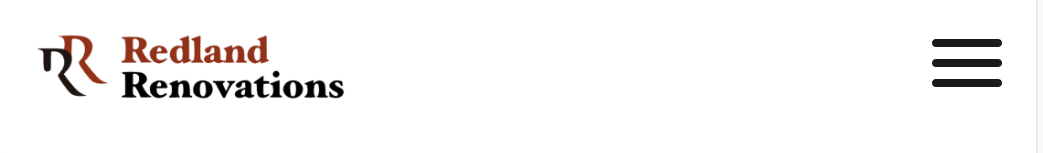
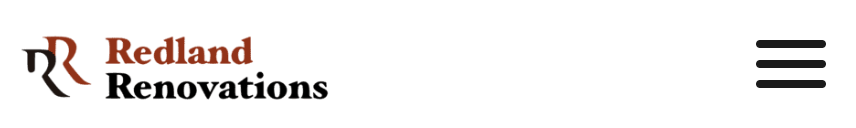
docs: add features

diff --git a/README.md b/README.md
@@ -99,7 +99,8 @@
 - Surface
 
   - Color Scheme
-        ![Color scheme](assets/docs/color-scheme-preview.png)
+  
+  <img src="assets/docs/color-scheme-preview.png" alt="Color scheme preview" width="450px">
 
   - Typography
     - Headings are formatted using the 'Suez One' font, a serif typeface.
@@ -128,11 +129,15 @@
 ```
 
   - Imagery
+    - Logo
+  
+    <img src="assets/docs/image-preview/logo-preview.png" alt="Color scheme preview" width="200px">
+  
     - Hero Image
   ![Hero image](assets/docs/image-preview/hero-image-preview.png)
   
-  - Roofing & lof extensions
-  [Roofing works images](assets/docs/image-preview/roofing-image-preview.png)
+  - Roofing & loft extensions
+  ![Roofing works images](assets/docs/image-preview/roofing-image-preview.png)
 
   - Plastering, rendering, insulation & stonemasonry
   ![Rendering works images](assets/docs/image-preview/plastering-image-preview.png)
@@ -156,17 +161,17 @@
 
 ### Existing Features
 
-  - Header
+  - Header + Navigation bar
 
 ![Feature](assets/docs/features/header.png)
 
   - Hamburger menu
 
-![Feature](assets/docs/features/hamburger-menu.png)
+<img src="assets/docs/features/hamburger-menu.png" alt="Hamburger menu preview image" width="350px">
 
   - Menu Sidebar
 
-![Feature](assets/docs/features/menu-sidebar.png)
+<img src="assets/docs/features/menu-sidebar.png" alt="Sidebar preview image" width="350px">
 
   - Home Page
 
@@ -181,10 +186,14 @@
 ![Feature](assets/docs/features/cta-bar.png)
 
   - Gallery Sections
+  
+    - Desktop layout
 
-![Feature](assets/docs/features/gallery-section-desktop.png)
+      ![Feature](assets/docs/features/gallery-section-desktop.png)
 
-![Feature](assets/docs/features/gallery-section-mobile.png)
+    - Mobile layout
+
+    <img src="assets/docs/features/gallery-section-mobile.png" alt="Gallery section mobile layout preview" width="400px">
 
   - About us section
 
